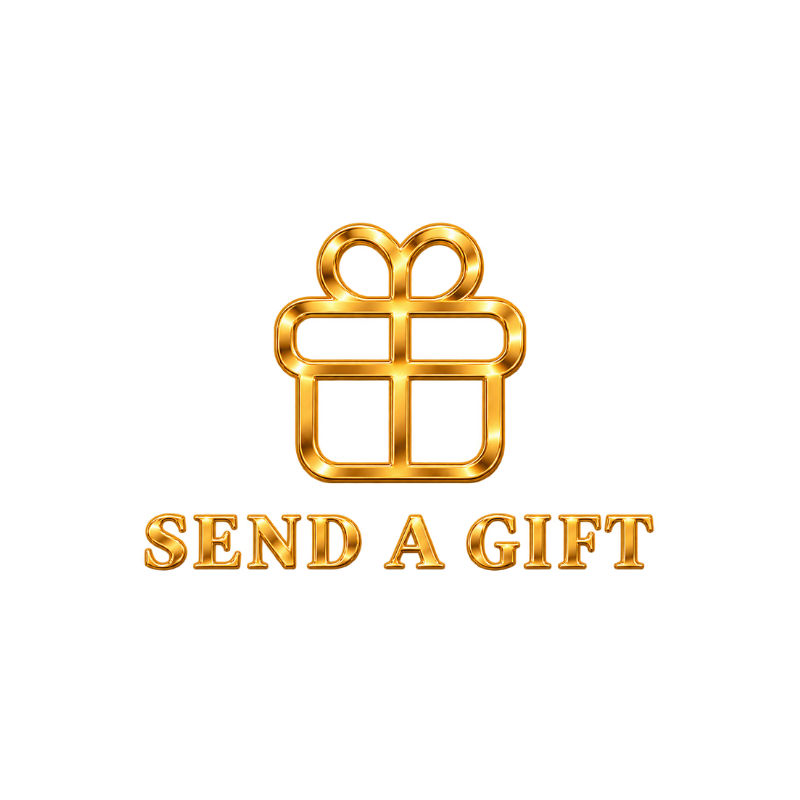
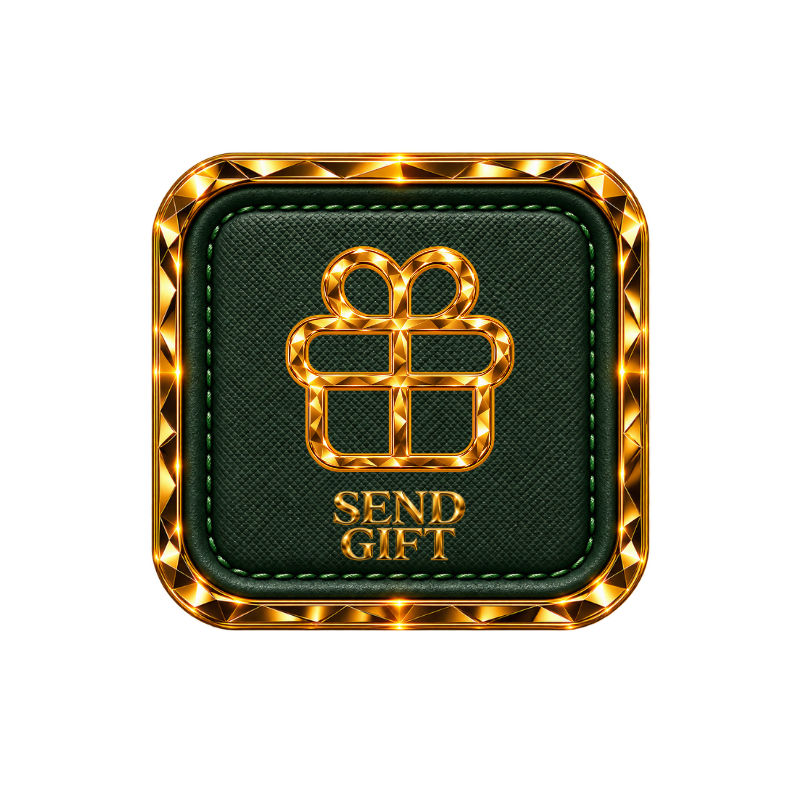
Complete baked hub buttons and nav pill with tap zones
Hub: each button is now one baked image (frame+leather+icon+label) in a plain TouchableOpacity at 47pct x 160, resizeMode contain - all overlay/frame/label code removed. Nav: single baked pill image (cropped 790x176) with four absolute quarter-width tap zones; zone routing follows the baked artwork order Home/Gifts/Friends/You (the provided snippet's zone 2-3 routes were swapped vs the artwork). No code-drawn shadows or borders remain on hub or nav; bottom margin is safe-area inset + 12.

diff --git a/src/components/BottomNavBar.tsx b/src/components/BottomNavBar.tsx
@@ -1,130 +1,52 @@
-import {
-  View, TouchableOpacity, Text, StyleSheet, Image, ImageBackground,
-  useWindowDimensions,
-} from 'react-native';
-import { useRouter, usePathname } from 'expo-router';
+import { View, TouchableOpacity, Image, StyleSheet } from 'react-native';
+import { useRouter } from 'expo-router';
 import { useSafeAreaInsets } from 'react-native-safe-area-context';
 
-// assets/images/nav/pill.png — from the master "assets/images/buttons pill.png".
-// The asset carries its own shadow and framing; no shadow/elevation styles here.
-//
-// Structure: the ImageBackground container owns the frame-safe padding; the
-// tab row is a separate inner View at width:'100%', so it is CONSTRAINED to
-// the container's content box and can never outgrow the artwork.
-const PILL = require('../../assets/images/nav/pill.png');
+// Complete baked pill artwork (frame + leather + all four tabs, from
+// "assets/images/buttons pill.png", cropped to content). No code-drawn
+// borders, shadows, icons, or labels — the image is the whole nav.
+const PILL = require('../../assets/images/ui/pill-nav.png');
 
-const TABS = [
-  { label: 'Home',   icon: require('../../assets/images/nav/home.png'),    route: '/'        },
-  { label: 'People', icon: require('../../assets/images/nav/people.png'),  route: '/people'  },
-  { label: 'Gifts',  icon: require('../../assets/images/nav/gifts.png'),   route: '/gifts'   },
-  { label: 'You',    icon: require('../../assets/images/nav/profile.png'), route: '/profile' },
+// Tap zones follow the BAKED tab order in the artwork, left to right:
+// Home, Gifts, Friends(People), You.
+const ZONES = [
+  { left: '0%', route: '/' },
+  { left: '25%', route: '/gifts' },
+  { left: '50%', route: '/people' },
+  { left: '75%', route: '/profile' },
 ] as const;
 
 export function BottomNavBar() {
   const router = useRouter();
-  const pathname = usePathname();
   const insets = useSafeAreaInsets();
-  const { width: winW } = useWindowDimensions();
-
-  const pillW = Math.min(Math.round(winW * 0.95), 600);
-  const pillH = 104;
-  // Measured from the artwork (2026-08-31 export, 1500x326): the gem frame
-  // band is 22.4% of the height at the top, 18.4% at the bottom, and the
-  // rounded end caps intrude ~11% of the width per side at content height.
-  const sidePad = Math.round(pillW * 0.11);
-  const padTop = Math.round(pillH * 0.22);
-  const padBottom = Math.round(pillH * 0.18);
 
   return (
-    <View style={[styles.wrap, { paddingBottom: insets.bottom + 12 }]}>
-      <ImageBackground
-        source={PILL}
-        style={[styles.pill, {
-          width: pillW, height: pillH,
-          paddingHorizontal: sidePad,
-          paddingTop: padTop, paddingBottom: padBottom,
-        }]}
-        imageStyle={styles.pillImage}
-        resizeMode="stretch"
-        onLayout={e => {
-          if (__DEV__) {
-            console.log(`[nav-debug] pill container width: ${Math.round(e.nativeEvent.layout.width)}`);
-          }
-        }}
-      >
-        <View
-          style={styles.tabRow}
-          onLayout={e => {
-            if (__DEV__) {
-              console.log(`[nav-debug] tab row width: ${Math.round(e.nativeEvent.layout.width)}`);
-            }
-          }}
-        >
-          {TABS.map(tab => {
-            const active =
-              tab.route === '/'
-                ? pathname === '/' || pathname === ''
-                : pathname === tab.route || pathname.startsWith(tab.route + '/');
-            return (
-              <TouchableOpacity
-                key={tab.route}
-                style={styles.tab}
-                onPress={() => router.push(tab.route)}
-                activeOpacity={0.7}
-              >
-                <View style={styles.iconWrap}>
-                  {active && <View style={styles.activeRing} />}
-                  <Image
-                    source={tab.icon}
-                    style={[styles.icon, active && styles.iconActive]}
-                    resizeMode="contain"
-                  />
-                </View>
-                <Text
-                  style={[styles.label, active && styles.labelActive]}
-                  numberOfLines={1}
-                  maxFontSizeMultiplier={1.15}
-                >
-                  {tab.label}
-                </Text>
-              </TouchableOpacity>
-            );
-          })}
-        </View>
-      </ImageBackground>
+    <View style={[styles.pillBox, { marginBottom: insets.bottom + 12 }]}>
+      <Image source={PILL} style={styles.pillImage} resizeMode="stretch" />
+      {ZONES.map(zone => (
+        <TouchableOpacity
+          key={zone.route}
+          onPress={() => router.push(zone.route)}
+          style={[styles.zone, { left: zone.left }]}
+          activeOpacity={0.7}
+        />
+      ))}
     </View>
   );
 }
 
 const styles = StyleSheet.create({
-  wrap: {
-    alignItems: 'center',
-    backgroundColor: 'transparent',
-  },
-  pill: {
-    justifyContent: 'center',
-    alignItems: 'center',
+  pillBox: {
+    width: '94%',
+    alignSelf: 'center',
+    height: 104,
+    position: 'relative',
   },
   pillImage: { width: '100%', height: '100%' },
-  // Constrained to the container's content box (inside the end-cap padding)
-  tabRow: {
-    width: '100%',
-    flexDirection: 'row',
-    justifyContent: 'space-evenly',
-    alignItems: 'center',
-  },
-  tab: { alignItems: 'center', gap: 3, flexShrink: 1 },
-  iconWrap: {
-    width: 50, height: 40,
-    alignItems: 'center', justifyContent: 'center',
-  },
-  activeRing: {
+  zone: {
     position: 'absolute',
-    width: 44, height: 44, borderRadius: 22,
-    backgroundColor: 'rgba(212, 175, 55, 0.20)',
+    top: 0,
+    width: '25%',
+    height: '100%',
   },
-  icon: { width: 36, height: 30 },
-  iconActive: { transform: [{ scale: 1.2 }] },
-  label:       { fontSize: 10, color: 'rgba(212, 175, 55, 0.55)', letterSpacing: 1 },
-  labelActive: { color: '#D4AF37' },
 });

diff --git a/src/app/(app)/index.tsx b/src/app/(app)/index.tsx
@@ -13,14 +13,13 @@ import { BottomNavBar } from '@/components/BottomNavBar';
 
 const BG = require('../../../assets/background.png');
 const WORDMARK = require('../../../assets/images/ui/wordmark.png');
-const SQUARE = require('../../../assets/images/ui/square.png');
 
-// Center plates carry the icon AND label in the metal artwork
+// Complete baked buttons: frame + leather + icon + label in one image
 const HUB_BUTTONS = [
-  { label: 'YOUR PEOPLE', plate: require('../../../assets/images/ui/hub-people.png'),  route: '/people'         },
-  { label: 'SEND A GIFT', plate: require('../../../assets/images/ui/hub-gift.png'),    route: '/send/recipient' },
-  { label: 'YOUR GIFTS',  plate: require('../../../assets/images/ui/hub-list.png'),    route: '/gifts'          },
-  { label: 'YOU',         plate: require('../../../assets/images/ui/hub-profile.png'), route: '/profile'        },
+  { label: 'YOUR PEOPLE', image: require('../../../assets/images/ui/btn-your-people.png'), route: '/people'         },
+  { label: 'SEND A GIFT', image: require('../../../assets/images/ui/btn-send-a-gift.png'), route: '/send/recipient' },
+  { label: 'YOUR GIFTS',  image: require('../../../assets/images/ui/btn-your-gifts.png'),  route: '/gifts'          },
+  { label: 'YOU',         image: require('../../../assets/images/ui/btn-you.png'),         route: '/profile'        },
 ] as const;
 
 interface UpcomingContact { id: string; display_name: string; days: number }
@@ -191,33 +190,21 @@ export default function HomeScreen() {
             </View>
           </View>
 
-          {/* ── 2×2 hub grid ── */}
+          {/* ── 2×2 hub grid — complete baked button images ── */}
           <View style={styles.grid}>
             {HUB_BUTTONS.map(btn => (
               <TouchableOpacity
                 key={btn.route}
                 onPress={() => router.push(btn.route)}
                 activeOpacity={0.7}
-                style={styles.hubBtnTouch}
+                style={styles.hubBtn}
               >
-                <ImageBackground
-                  source={SQUARE}
-                  style={styles.hubBtn}
-                  imageStyle={styles.hubBtnImage}
-                  resizeMode="stretch"
-                >
-                  {/* Inner content box: padding equals the gem frame border
-                      thickness; the metal plate (icon + label in one artwork)
-                      scales to fit inside the stitched leather area. */}
-                  <View style={styles.hubInner}>
-                    <Image
-                      source={btn.plate}
-                      style={styles.hubPlate}
-                      resizeMode="contain"
-                      accessibilityLabel={btn.label}
-                    />
-                  </View>
-                </ImageBackground>
+                <Image
+                  source={btn.image}
+                  style={styles.hubBtnImage}
+                  resizeMode="contain"
+                  accessibilityLabel={btn.label}
+                />
               </TouchableOpacity>
             ))}
           </View>
@@ -257,14 +244,7 @@ const styles = StyleSheet.create({
   divider:       { width: 48, height: 1, backgroundColor: 'rgba(212,175,55,0.4)' },
   dividerHeart:  { position: 'absolute' },
 
-  grid: { flexDirection: 'row', flexWrap: 'wrap', columnGap: 14, rowGap: 22 },
-  hubBtnTouch: { width: '47.5%' },
-  hubBtn: { height: 168 },
+  grid: { flexDirection: 'row', flexWrap: 'wrap', columnGap: 14, rowGap: 22, justifyContent: 'center' },
+  hubBtn: { width: '47%', height: 160 },
   hubBtnImage: { width: '100%', height: '100%' },
-  hubInner: {
-    flex: 1,
-    paddingTop: 24, paddingBottom: 24, paddingHorizontal: 28,
-    alignItems: 'center', justifyContent: 'center',
-  },
-  hubPlate: { width: '100%', height: '100%' },
 });
